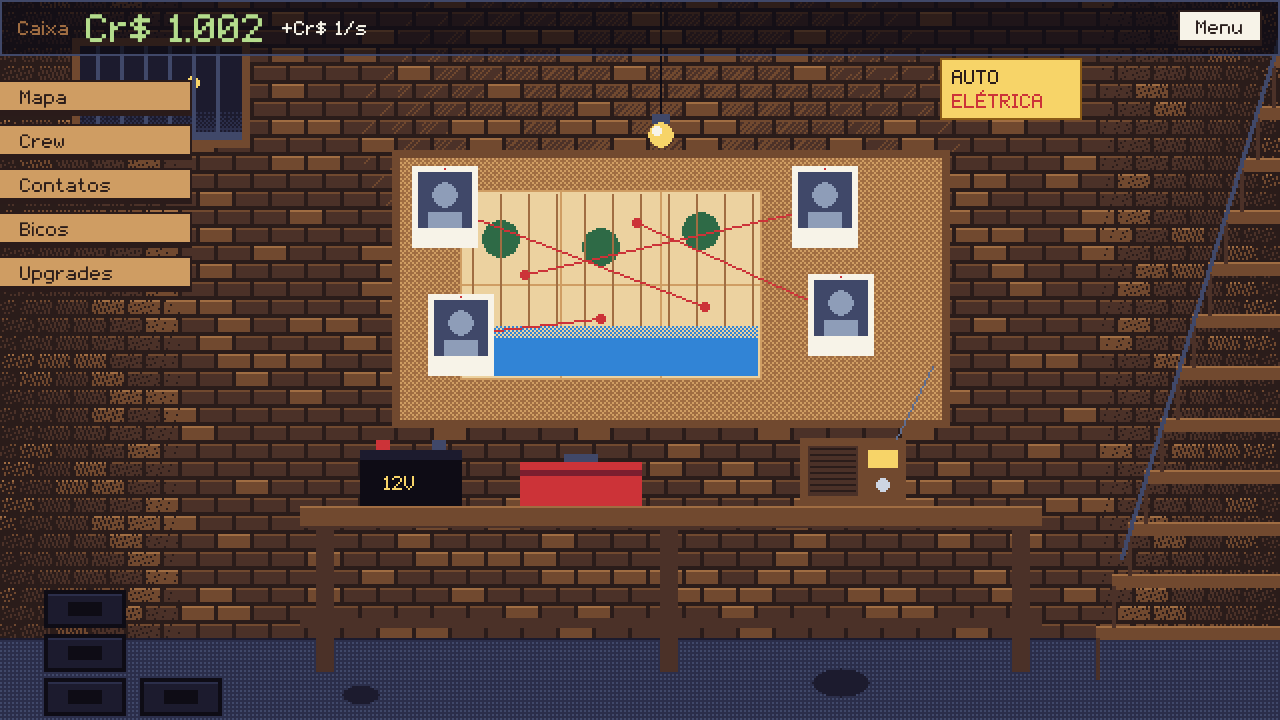
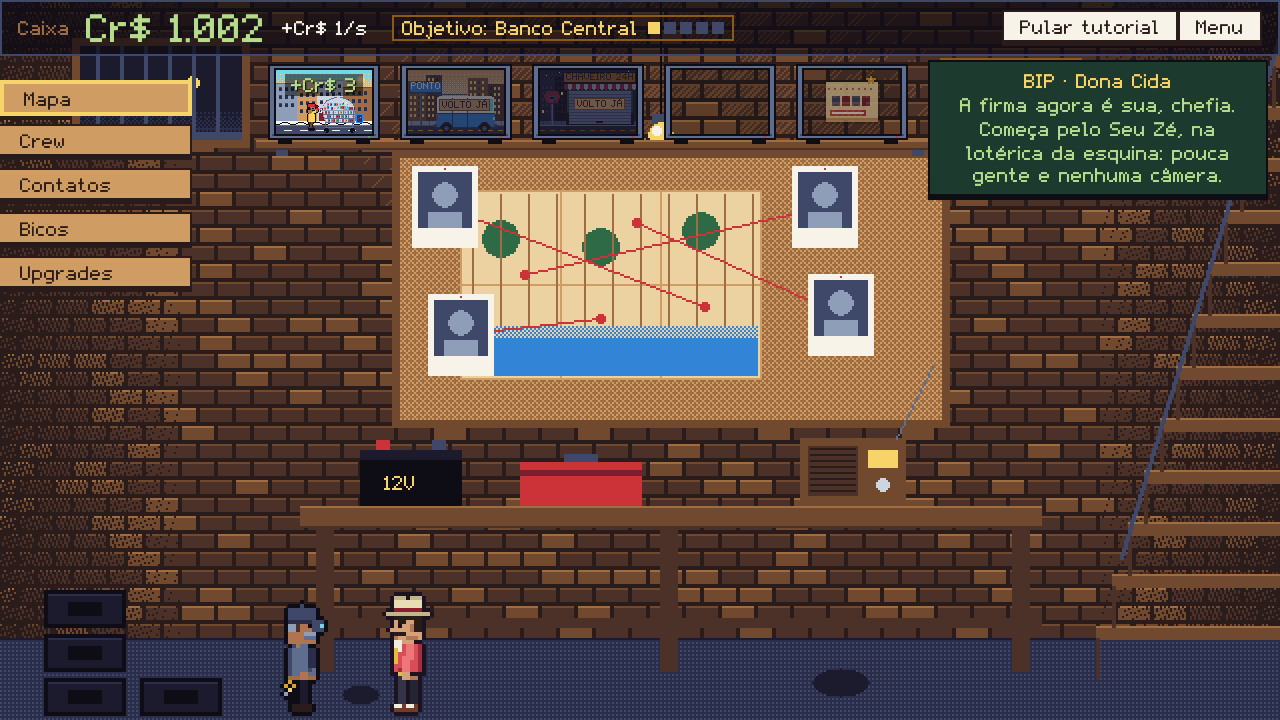
Atualiza a Interface do GDD com os prints das telas novas e registra a Sprint 2
Refs #89 #90

diff --git a/docs/GDD.md b/docs/GDD.md
@@ -175,7 +175,14 @@ _Números atuais: ver [ESCOPO.md](ESCOPO.md) e [BALANCEAMENTO.md](BALANCEAMENTO.
 
 **Áudio como interface:** a música do golpe ganha camadas com o alerta; cada ação importante tem som.
 
-_Mockups das telas: colar aqui e no Milanote._
+Telas (prints do jogo):
+
+| | |
+|---|---|
+| ![Esconderijo com o objetivo e a escada de golpes até o Banco Central](img/ui_esconderijo.png) | ![Bicos como vitrines: a cena de quem está lá e "VOLTO JÁ" no vazio](img/ui_bicos.png) |
+| ![Faixa Golpes rolando: o golpe no automático com sacola, alerta, crew e salas](img/ui_golpes_rolando.png) | ![Planejamento](img/ui_planejamento.png) |
+| ![Fim da abertura: o jornal com a foto do Bastos](img/ui_abertura_jornal.png) | ![Revanche: a edição especial do Banco Central limpo, antes dos créditos](img/ui_jornal_revanche.png) |
+| ![HUD do golpe com a porta](img/ui_hud_porta.png) | ![Jornal do golpe](img/ui_jornal.png) |
 
 Cena do Golpe (prints do jogo):
 
@@ -285,3 +292,4 @@ Detalhes e lista de packs: [ASSETS.md](ASSETS.md).
 | 30/10/2026 | Blueprint, Mechanics | 6 eventos dos golpes extras, 2 por golpe, que só saem no golpe deles | Cada golpe extra é a vitrine de um ladrão |
 | 30/10/2026 | Blueprint, Experience | Abertura implementada: Novo jogo toca o golpe roteirizado no Banco Central (letreiro, bordões, Loop e Lábia, cofre aberto, sirene, "só mais uma", prisão, jornal e bip da segunda chance) e cai no esconderijo; Pular e Esc a qualquer hora; "Ver abertura" no menu. Não paga, não prende e não gasta bip de marco | Objetivo claro desde o primeiro minuto, sem mexer no save |
 | 30/10/2026 | Interface, Arte e Som | Abertura contada pela cena (chuva de dinheiro, placas da porta, Bastos, prisão e congelamento); prédios dos 3 golpes extras; miniaturas dos 8 prédios; cenas dos bicos Chaveiro 24h e Catar latinha; esconderijo vivo (bicos nos monitores soltando "+Cr$", um objeto por upgrade, crew no porão, presos no mural) | Pedidos do professor: mais visual na parte idle e ver a firma crescer quando compra upgrade; aprender jogando passando o mouse nas coisas |
+| 04/11/2026 | Interface, Experience | Telas da parte idle e da abertura prontas: faixa Golpes rolando (cartão com miniatura, sacola, alerta, crew e salas; mini manchete e "+Cr$" voando pro caixa no fim da volta), Planejar com Na moita / Até o cofre e Repetir, bicos como vitrines animadas, letreiro e jornal da abertura, objetivo sempre no topo do esconderijo e a capa especial da revanche antes dos créditos. Sons da Kombi, do cofre e das algemas | Fim da Sprint 2: objetivo visível o tempo todo e a firma trabalhando na tela enquanto o jogador planeja |
